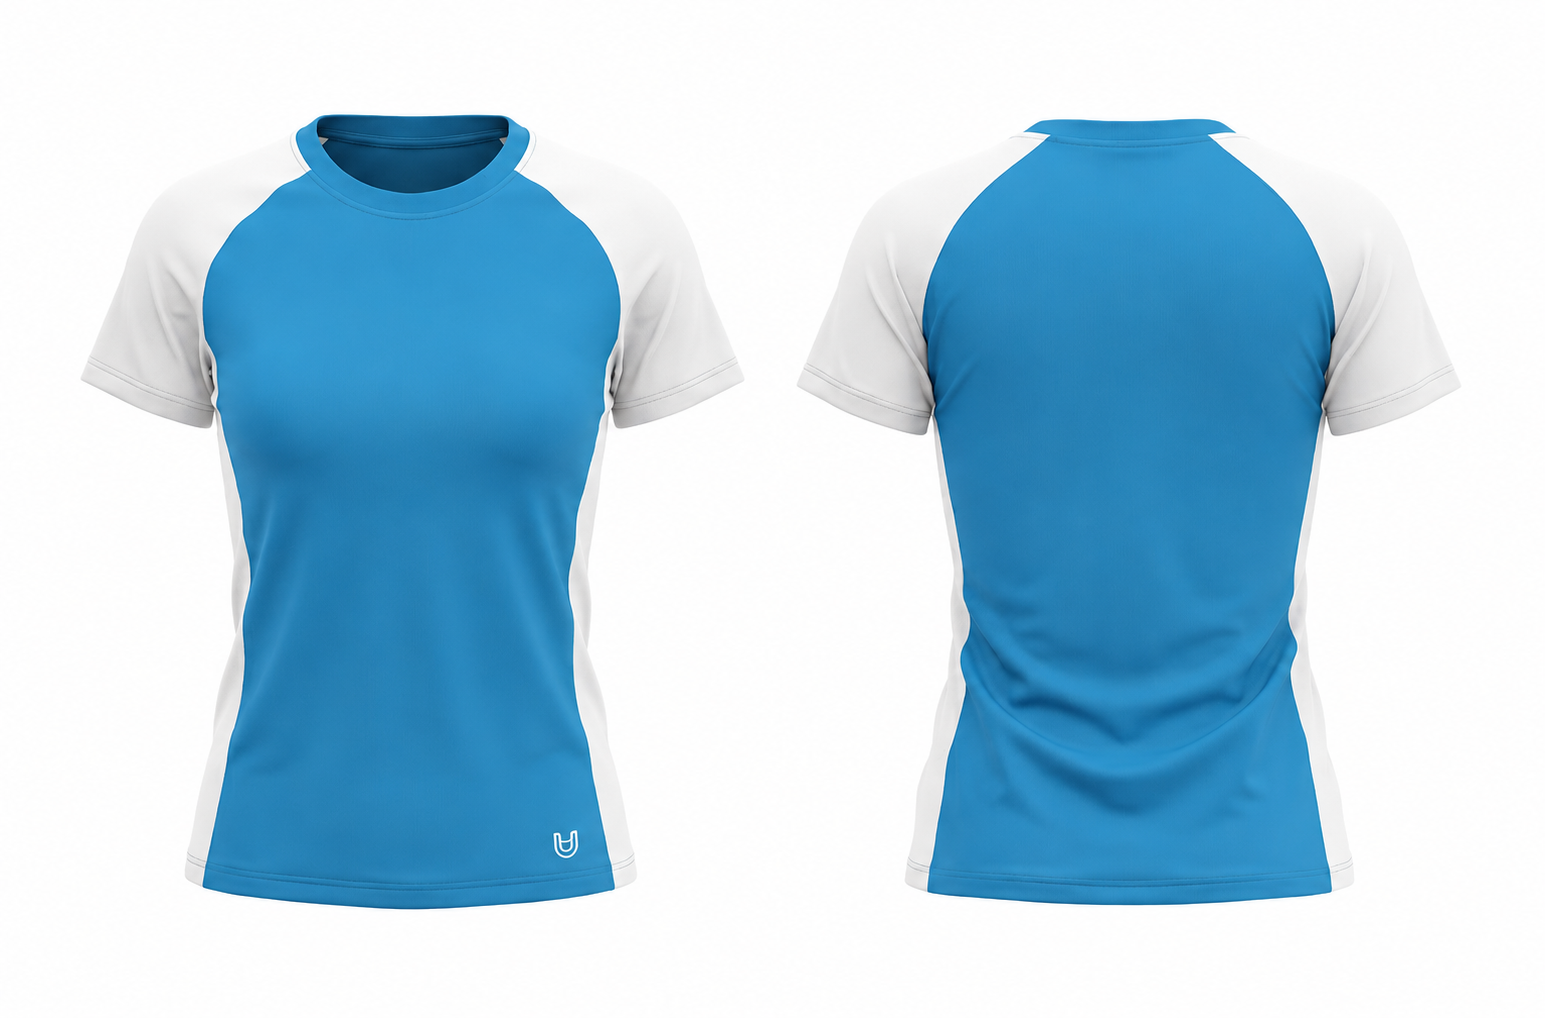
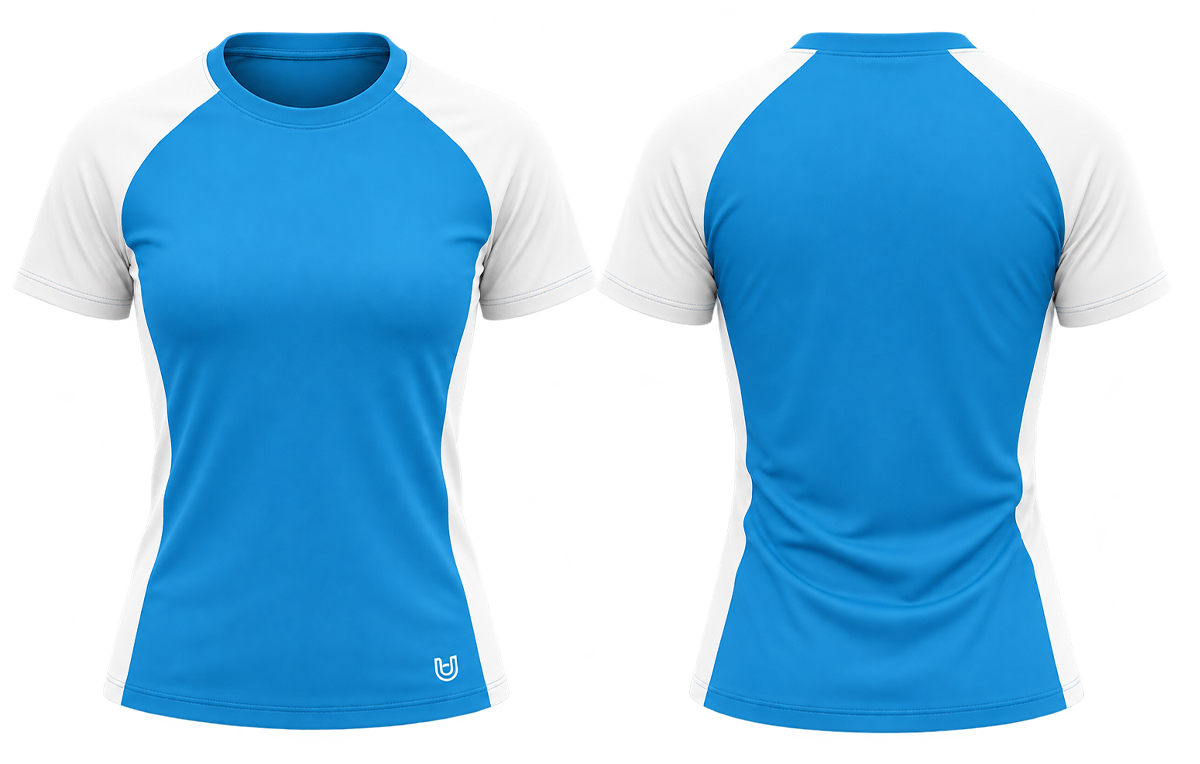
update

Changed region(s): [[0.0308, 0.0301, 0.4317, 0.9634], [0.5242, 0.0301, 0.925, 0.9634]]

diff --git a/components/univisport/FabricCardComponent.jsx b/components/univisport/FabricCardComponent.jsx
@@ -7,14 +7,19 @@ const FABRICS = [
     id: 'supercool',
     name: 'UNISUPERCOOL',
     category: 'sport',
-    bgGradient: 'from-[#172545] via-[#1c2c4e] to-[#121e38]',
-    pattern: 'mesh',
+    bgImage: '/mockup/fabric-supercool-bg.jpg',
     image: '/images/fabric-supercool-polo.png',
     cardTitle: 'ĐẶC TÍNH CHẤT LIỆU UNISUPERCOOL',
+    composition: [
+      { percentage: '89%', name: 'Polyamide' },
+      { percentage: '11%', name: 'Elastane' },
+    ],
     bullets: [
-      'Sợi Polyamide cao cấp (76-90%), mang lại cảm giác mát lạnh tức thì khi tiếp xúc da.',
-      'Độ mềm mịn đỉnh cao, co giãn 4 chiều linh hoạt theo từng biên độ chuyển động.',
-      'Khả năng chống nhăn tự nhiên, giữ form áo chuẩn đẹp và sang trọng suốt ngày dài.',
+      'Thoáng khí vượt trội.',
+      'Thoát ẩm nhanh, đẩy mồ hôi ra bề mặt, hạn chế cảm giác bết dính.',
+      'Dòng vải an toàn cho da, đã được kiểm định.',
+      'Co giãn đa chiều, linh hoạt theo từng chuyển động.',
+      'Mềm mại, nhẹ và êm mịn trên da.',
     ],
     features: ['Co giãn 4 chiều', 'Mát lạnh tức thì', 'Chống nhăn tự nhiên', 'Chuẩn form PT'],
   },
@@ -22,15 +27,19 @@ const FABRICS = [
     id: 'quickdry',
     name: 'UNIQUICKDRY',
     category: 'sport',
-    bgGradient: 'from-[#037fa9] via-[#058dbb] to-[#046e96]',
-    pattern: 'linear',
-    image: '/images/fabric-quickdry-polo.jpg',
-    cardTitle: 'ĐẶC TÍNH CHẤT LIỆU UNIVI',
+    bgImage: '/mockup/uni-quickdry.jpg',
+    image: '/images/fabric-quickdry-polo.png',
+    cardTitle: 'ĐẶC TÍNH CHẤT LIỆU UNI QUICK DRY',
+    composition: [
+      { percentage: '88%', name: 'Polyester' },
+      { percentage: '12%', name: 'Elastane' },
+    ],
     bullets: [
-      'Thoáng khí vượt trội, giữ cơ thể luôn thoáng mát khi vận động.',
+      'Thoáng khí vượt trội, giúp cơ thể luôn thoáng mát khi vận động.',
       'Thoát ẩm nhanh, đẩy mồ hôi ra bề mặt, hạn chế cảm giác bết dính.',
       'Dòng vải an toàn cho da, đã được kiểm định.',
       'Co giãn đa chiều, linh hoạt theo từng chuyển động của cơ thể.',
+      'Mềm mại & nhẹ, êm mịn trên da, thoải mái khi mặc trong thời gian dài.',
     ],
     features: ['Thoát ẩm 1 chiều', 'Khô siêu tốc', 'Chống tia UV', 'Bền màu vượt trội'],
   },
@@ -38,15 +47,21 @@ const FABRICS = [
     id: 'uniair',
     name: 'UNIAIR',
     category: 'sport',
-    bgGradient: 'from-[#0ea5e9] via-[#38bdf8] to-[#0284c7]',
-    pattern: 'air',
+    bgImage: '/mockup/uni-air.jpg',
     image: '/images/fabric-uniair-polo.png',
     cardTitle: 'ĐẶC TÍNH CHẤT LIỆU UNIAIR',
+    composition: [
+      { percentage: '89%', name: 'Polyamide' },
+      { percentage: '11%', name: 'Elastane' },
+    ],
     bullets: [
-      'Công nghệ dệt cấu trúc dệt lỗ kim siêu nhỏ Air-Mesh, tối đa hóa lưu thông không khí.',
-      'Trọng lượng siêu nhẹ, mặc như không mặc, cho cảm giác thanh thoát tuyệt đối.',
-      'Khả năng tản nhiệt siêu tốc, giúp hạ nhiệt cơ thể nhanh chóng khi vận động mạnh.',
-      'Co giãn 4 chiều linh hoạt, hạn chế tối đa ma sát và cảm giác gò bó.',
+      'Thoáng khí vượt trội.',
+      'Thoát ẩm nhanh, đẩy mồ hôi ra bề mặt.',
+      'Hạn chế cảm giác bết dính.',
+      'An toàn cho da, đã được kiểm định.',
+      'Co giãn đa chiều, linh hoạt theo chuyển động.',
+      'Mềm mại & nhẹ, êm mịn trên da.',
+      'Thoải mái khi mặc trong thời gian dài.',
     ],
     features: ['Cấu trúc Air-Mesh', 'Siêu nhẹ & thoáng', 'Tản nhiệt siêu tốc', 'Kháng khuẩn bám mùi'],
   },
@@ -54,15 +69,19 @@ const FABRICS = [
     id: 'polo-casau',
     name: 'POLO CÁ SẤU',
     category: 'office',
-    bgGradient: 'from-[#5ba9cc] via-[#6ab7da] to-[#4c9cbd]',
-    pattern: 'pique',
+    bgImage: '/mockup/uni-pique.jpg',
     image: '/images/fabric-casau-polo.png',
     cardTitle: 'ĐẶC TÍNH CHẤT LIỆU POLO CÁ SẤU',
+    composition: [
+      { percentage: '86%', name: 'Polyamide' },
+      { percentage: '14%', name: 'Elastane' },
+    ],
     bullets: [
-      'Cấu trúc dệt mắt Pique (cá sấu) sang trọng, tạo độ dày dặn và đứng form chuẩn.',
-      'Hàng ngàn lỗ thoáng khí li ti trên bề mặt giúp lưu thông gió, giảm tích nhiệt.',
-      'Vẻ ngoài lịch lãm, chỉn chu, rất phù hợp cho nhân viên lễ tân, sale và quản lý.',
-      'Thấm hút mồ hôi tốt, tạo cảm giác khô ráo, tự tin trong suốt ca làm việc dài.',
+      'Thoáng khí vượt trội, giữ cơ thể luôn thoáng mát khi vận động.',
+      'Thoát ẩm nhanh, đẩy mồ hôi ra bề mặt, hạn chế cảm giác bết dính.',
+      'Dòng vải an toàn cho da, đã được kiểm định.',
+      'Co giãn đa chiều, linh hoạt theo từng chuyển động của cơ thể.',
+      'Mềm mại & nhẹ, êm mịn trên da, thoải mái khi mặc trong thời gian dài.',
     ],
     features: ['Đứng form lịch sự', 'Dệt mắt Pique', 'Thoáng khí tối ưu', 'Chuẩn lễ tân & quản lý'],
   },
@@ -70,15 +89,19 @@ const FABRICS = [
     id: 'polo-hoatiet',
     name: 'POLO HOẠ TIẾT',
     category: 'office',
-    bgGradient: 'from-[#97cacc] via-[#aee0e2] to-[#88bec1]',
-    pattern: 'geometric',
-    image: '/images/fabric-hoatiet-polo.jpg',
+    bgImage: '/mockup/fabric-hoatiet-polo.jpg',
+    image: '/images/fabric-hoatiet-polo.png',
     cardTitle: 'ĐẶC TÍNH CHẤT LIỆU POLO HOẠ TIẾT',
+    composition: [
+      { percentage: '86%', name: 'Polyamide' },
+      { percentage: '14%', name: 'Elastane' },
+    ],
     bullets: [
-      'Kỹ thuật in chuyển nhiệt / dệt Jacquard họa tiết hình học chìm độc quyền, sắc nét.',
-      'Công nghệ khóa màu tiên tiến, không phai màu, không bong tróc khi giặt sấy.',
-      'Nền vải thể thao cao cấp siêu nhẹ, mềm mượt và thoát nhiệt nhanh chóng.',
-      'Tạo dấu ấn nhận diện thương hiệu hiện đại, trẻ trung và năng động cho doanh nghiệp.',
+      'Thoáng khí vượt trội.',
+      'Thoát ẩm nhanh, hạn chế cảm giác bết dính khi vận động.',
+      'Dòng vải an toàn cho da, đã được kiểm định.',
+      'Co giãn đa chiều, hỗ trợ chuyển động cơ thể.',
+      'Mềm mại, nhẹ, êm mịn và thoải mái khi mặc lâu.',
     ],
     features: ['Họa tiết in chìm', 'Không phai màu', 'Siêu nhẹ & mát', 'Độc quyền thương hiệu'],
   },
@@ -120,33 +143,27 @@ const FabricCardComponent = () => {
                     type="button"
                     onClick={() => setSelectedId(fabric.id)}
                     className={`group relative w-full h-14 sm:h-24 md:h-[100px] rounded-xl sm:rounded-2xl md:rounded-[20px] overflow-hidden text-center cursor-pointer transition-all duration-300 transform ${isActive
-                      ? 'ring-2 sm:ring-4 ring-[#105d97]/40 scale-[1.02] shadow-lg'
+                      ? 'ring-2 sm:ring-4 ring-[#105d97]/60 scale-[1.02] shadow-lg'
                       : 'hover:scale-[1.015] hover:shadow-md opacity-95 hover:opacity-100'
                       }`}
                   >
-                    {/* Background Gradient */}
-                    <div className={`absolute inset-0 bg-gradient-to-r ${fabric.bgGradient}`} />
-
-                    {/* Fabric Texture Pattern Overlay */}
+                    {/* Real Fabric Background Image */}
                     <div
-                      className="absolute inset-0 opacity-30 mix-blend-overlay bg-repeat"
-                      style={{
-                        backgroundImage:
-                          fabric.pattern === 'mesh'
-                            ? 'radial-gradient(#ffffff 1.2px, transparent 1.2px)'
-                            : 'linear-gradient(90deg, rgba(255,255,255,0.2) 1px, transparent 1px)',
-                        backgroundSize: fabric.pattern === 'mesh' ? '6px 6px' : '4px 100%',
-                      }}
+                      className="absolute inset-0 bg-cover bg-center transition-transform duration-500 group-hover:scale-105"
+                      style={{ backgroundImage: `url(${fabric.bgImage})` }}
                     />
+
+                    {/* Dark contrast overlay so text is always clear */}
+                    <div className={`absolute inset-0 transition-colors duration-300 ${isActive ? 'bg-black/30' : 'bg-black/40 group-hover:bg-black/30'}`} />
 
                     {/* Active State Indicator / Glow */}
                     {isActive && (
-                      <div className="absolute inset-0 border-2 border-white/40 rounded-xl sm:rounded-2xl md:rounded-[20px] pointer-events-none" />
+                      <div className="absolute inset-0 border-2 border-white/60 rounded-xl sm:rounded-2xl md:rounded-[20px] pointer-events-none" />
                     )}
 
                     {/* Card Title */}
                     <div className="relative h-full flex items-center justify-center px-1 sm:px-4">
-                      <span className="text-[10px] min-[380px]:text-xs sm:text-xl md:text-2xl font-black text-white uppercase tracking-tight sm:tracking-widest drop-shadow-[0_2px_4px_rgba(0,0,0,0.5)] group-hover:scale-105 transition-transform duration-200 leading-tight">
+                      <span className="text-[10px] min-[380px]:text-xs sm:text-xl md:text-2xl font-black text-white uppercase tracking-tight sm:tracking-widest drop-shadow-[0_2px_4px_rgba(0,0,0,0.8)] group-hover:scale-105 transition-transform duration-200 leading-tight">
                         {fabric.name}
                       </span>
                     </div>
@@ -170,33 +187,27 @@ const FabricCardComponent = () => {
                     type="button"
                     onClick={() => setSelectedId(fabric.id)}
                     className={`group relative w-full h-14 sm:h-24 md:h-[100px] rounded-xl sm:rounded-2xl md:rounded-[20px] overflow-hidden text-center cursor-pointer transition-all duration-300 transform ${isActive
-                      ? 'ring-2 sm:ring-4 ring-[#105d97]/40 scale-[1.02] shadow-lg'
+                      ? 'ring-2 sm:ring-4 ring-[#105d97]/60 scale-[1.02] shadow-lg'
                       : 'hover:scale-[1.015] hover:shadow-md opacity-95 hover:opacity-100'
                       }`}
                   >
-                    {/* Background Gradient */}
-                    <div className={`absolute inset-0 bg-gradient-to-r ${fabric.bgGradient}`} />
-
-                    {/* Fabric Texture Pattern Overlay */}
+                    {/* Real Fabric Background Image */}
                     <div
-                      className="absolute inset-0 opacity-35 mix-blend-overlay bg-repeat"
-                      style={{
-                        backgroundImage:
-                          fabric.pattern === 'pique'
-                            ? 'radial-gradient(circle, #ffffff 1.5px, transparent 1.5px)'
-                            : 'linear-gradient(45deg, rgba(255,255,255,0.25) 25%, transparent 25%, transparent 50%, rgba(255,255,255,0.25) 50%, rgba(255,255,255,0.25) 75%, transparent 75%, transparent)',
-                        backgroundSize: fabric.pattern === 'pique' ? '8px 8px' : '16px 16px',
-                      }}
+                      className="absolute inset-0 bg-cover bg-center transition-transform duration-500 group-hover:scale-105"
+                      style={{ backgroundImage: `url(${fabric.bgImage})` }}
                     />
+
+                    {/* Dark contrast overlay so text is always clear */}
+                    <div className={`absolute inset-0 transition-colors duration-300 ${isActive ? 'bg-black/30' : 'bg-black/40 group-hover:bg-black/30'}`} />
 
                     {/* Active State Indicator / Glow */}
                     {isActive && (
-                      <div className="absolute inset-0 border-2 border-white/40 rounded-xl sm:rounded-2xl md:rounded-[20px] pointer-events-none" />
+                      <div className="absolute inset-0 border-2 border-white/60 rounded-xl sm:rounded-2xl md:rounded-[20px] pointer-events-none" />
                     )}
 
                     {/* Card Title */}
                     <div className="relative h-full flex items-center justify-center px-1 sm:px-4">
-                      <span className="text-xs sm:text-xl md:text-2xl font-black text-white uppercase tracking-tight sm:tracking-widest drop-shadow-[0_2px_4px_rgba(0,0,0,0.35)] group-hover:scale-105 transition-transform duration-200 leading-tight">
+                      <span className="text-xs sm:text-xl md:text-2xl font-black text-white uppercase tracking-tight sm:tracking-widest drop-shadow-[0_2px_4px_rgba(0,0,0,0.8)] group-hover:scale-105 transition-transform duration-200 leading-tight">
                         {fabric.name}
                       </span>
                     </div>
@@ -207,7 +218,7 @@ const FabricCardComponent = () => {
           </div>
         </div>
 
-        {/* Right Column: Dynamic Shirt Image + Dynamic Characteristic Card */}
+        {/* Right Column: Dynamic Shirt Image + Composition + Dynamic Characteristic Card */}
         <div className="lg:col-span-6 flex flex-col justify-between space-y-3">
           {/* Top: Dynamic Polo Shirts Image */}
           <div className="relative w-full aspect-[16/10] sm:aspect-[16/9] md:aspect-[16/10] bg-white overflow-hidden flex items-center justify-center">
@@ -220,6 +231,83 @@ const FabricCardComponent = () => {
               className="object-contain p-2 transition-all duration-500 animate-fadeIn"
               priority
             />
+          </div>
+
+          {/* Middle: Thành phần chất liệu & Icon đặc tính (Nhỏ gọn, không border) */}
+          <div className="flex flex-col items-center justify-center pb-1">
+            {/* Composition Text: 89% POLYAMIDE / 11% ELASTANE */}
+            <div className="text-xs sm:text-sm md:text-base font-bold tracking-wider text-slate-800 uppercase text-center font-sans">
+              {selectedFabric.composition
+                ? selectedFabric.composition
+                  .map((comp) => `${comp.percentage} ${comp.name.toUpperCase()}`)
+                  .join(' / ')
+                : '89% POLYAMIDE / 11% ELASTANE'}
+            </div>
+
+            {/* 3 Circular Feature Icons */}
+            <div className="flex items-center justify-center gap-3 sm:gap-4">
+              {/* Icon 1: Thoáng khí (Airflow / Breathability) */}
+              <div className="flex flex-col items-center">
+                <svg
+                  className="w-7 h-7 sm:w-8 sm:h-8 text-slate-800"
+                  viewBox="0 0 48 48"
+                  fill="none"
+                  stroke="currentColor"
+                >
+                  <circle cx="24" cy="24" r="22" strokeWidth="1.6" />
+                  {/* Top 3 Upward arrows */}
+                  <path d="M18 16V11M18 11L16 13M18 11L20 13" strokeWidth="1.6" strokeLinecap="round" strokeLinejoin="round" />
+                  <path d="M24 17V9M24 9L22 11M24 9L26 11" strokeWidth="1.6" strokeLinecap="round" strokeLinejoin="round" />
+                  <path d="M30 16V11M30 11L28 13M30 11L32 13" strokeWidth="1.6" strokeLinecap="round" strokeLinejoin="round" />
+                  {/* Fabric middle membrane */}
+                  <path d="M13 23.5C14.5 24.5 16 23 17.5 23.5C19 24 20.5 23 22 23.5C23.5 24 25 23 26.5 23.5C28 24 29.5 23 31 23.5C32.5 24 34 23 35.5 23.5" strokeWidth="1.6" strokeLinecap="round" />
+                  <path d="M13 25.5C14.5 26.5 16 25 17.5 25.5C19 26 20.5 25 22 25.5C23.5 26 25 25 26.5 25.5C28 26 29.5 25 31 25.5C32.5 26 34 25 35.5 25.5" strokeWidth="1.6" strokeLinecap="round" />
+                  {/* Bottom 3 Downward arrows */}
+                  <path d="M18 32V37M18 37L16 35M18 37L20 35" strokeWidth="1.6" strokeLinecap="round" strokeLinejoin="round" />
+                  <path d="M24 31V39M24 39L22 37M24 39L26 37" strokeWidth="1.6" strokeLinecap="round" strokeLinejoin="round" />
+                  <path d="M30 32V37M30 37L28 35M30 37L32 35" strokeWidth="1.6" strokeLinecap="round" strokeLinejoin="round" />
+                </svg>
+              </div>
+
+              {/* Icon 2: Thoát ẩm / Nhanh khô (Moisture Wicking / Quick Dry) */}
+              <div className="flex flex-col items-center">
+                <svg
+                  className="w-7 h-7 sm:w-8 sm:h-8 text-slate-800"
+                  viewBox="0 0 48 48"
+                  fill="none"
+                  stroke="currentColor"
+                >
+                  <circle cx="24" cy="24" r="22" strokeWidth="1.6" />
+                  {/* 3 Droplets */}
+                  <path d="M24 10C24 10 21.5 14.5 21.5 16.5C21.5 17.88 22.62 19 24 19C25.38 19 26.5 17.88 26.5 16.5C26.5 14.5 24 10 24 10Z" strokeWidth="1.6" strokeLinejoin="round" />
+                  <path d="M17.5 13C17.5 13 15.7 15.8 15.7 17.2C15.7 18.2 16.5 19 17.5 19C18.5 19 19.3 18.2 19.3 17.2C19.3 15.8 17.5 13 17.5 13Z" strokeWidth="1.6" strokeLinejoin="round" />
+                  <path d="M30.5 13C30.5 13 28.7 15.8 28.7 17.2C28.7 18.2 29.5 19 30.5 19C31.5 19 32.3 18.2 32.3 17.2C32.3 15.8 30.5 13 30.5 13Z" strokeWidth="1.6" strokeLinejoin="round" />
+                  {/* Fabric line */}
+                  <path d="M12 23.5H36" strokeWidth="1.6" strokeLinecap="round" />
+                  {/* Bottom 3 Upward arrows */}
+                  <path d="M18 36V28M18 28L16 30M18 28L20 30" strokeWidth="1.6" strokeLinecap="round" strokeLinejoin="round" />
+                  <path d="M24 37V27M24 27L22 29M24 27L26 29" strokeWidth="1.6" strokeLinecap="round" strokeLinejoin="round" />
+                  <path d="M30 36V28M30 28L28 30M30 28L32 30" strokeWidth="1.6" strokeLinecap="round" strokeLinejoin="round" />
+                </svg>
+              </div>
+
+              {/* Icon 3: Mềm mại & Nhẹ (Soft & Lightweight Feather) */}
+              <div className="flex flex-col items-center">
+                <svg
+                  className="w-7 h-7 sm:w-8 sm:h-8 text-slate-800"
+                  viewBox="0 0 48 48"
+                  fill="none"
+                  stroke="currentColor"
+                >
+                  <circle cx="24" cy="24" r="22" strokeWidth="1.6" />
+                  {/* Feather body & stem */}
+                  <path d="M34 14C30 15 25 18 23 23C21 28 17 31 12 34C15 34 19 33.5 23 30.5C28 27 32 22 34 14Z" strokeWidth="1.6" strokeLinejoin="round" />
+                  <path d="M34 14C31 16 27 20 23 25C19 30 16 33 12 34" strokeWidth="1.6" strokeLinecap="round" />
+                  <path d="M23 23C25 21 28 18.5 31 16.5" strokeWidth="1.4" strokeLinecap="round" />
+                  <path d="M19 28C21 26 24 23.5 26 22" strokeWidth="1.4" strokeLinecap="round" />
+                </svg>
+              </div>
+            </div>
           </div>
 
           {/* Bottom: Dynamic Đặc Tính Chất Liệu Card */}
@@ -245,8 +333,6 @@ const FabricCardComponent = () => {
                 </li>
               ))}
             </ul>
-
-
           </div>
         </div>
       </div>

diff --git a/components/common/Footer.tsx b/components/common/Footer.tsx
@@ -33,12 +33,12 @@ export default function Footer() {
       { name: "Đồng phục áo gió", href: "/dong-phuc-ao-gio" },
     ],
     enterprise: [
-      { name: "Đồng phục áo sơ mi", href: "/dong-phuc-doanh-nghiep" },
-      { name: "Vest công sở", href: "/dong-phuc-doanh-nghiep/polo" },
-      { name: "Polo doanh nghiệp", href: "/dong-phuc-doanh-nghiep/cong-so" },
-      { name: "Bảo hộ lao động", href: "/dong-phuc-bao-ho-lao-dong" },
+      { name: "Đồng phục áo sơ mi", href: "/dong-phuc-so-mi" },
+      { name: "Vest công sở", href: "/dong-phuc-vest-cong-so" },
+      { name: "Polo doanh nghiệp", href: "/dong-phuc-polo" },
+      { name: "Bảo hộ lao động", href: "/bao-ho-lao-dong" },
       { name: "Teambuilding", href: "/dong-phuc-teambuilding" },
-      { name: "Phụ kiện và quà tặng", href: "/dong-phuc-phu-kien-qua-tang" },
+      { name: "Phụ kiện và quà tặng", href: "/phu-kien-qua-tang-doanh-nghiep" },
 
     ],
   };

diff --git a/next-env.d.ts b/next-env.d.ts
@@ -1,6 +1,6 @@
 /// <reference types="next" />
 /// <reference types="next/image-types/global" />
-import "./.next/types/routes.d.ts";
+import "./.next/dev/types/routes.d.ts";
 
 // NOTE: This file should not be edited
 // see https://nextjs.org/docs/pages/api-reference/config/typescript for more information.
